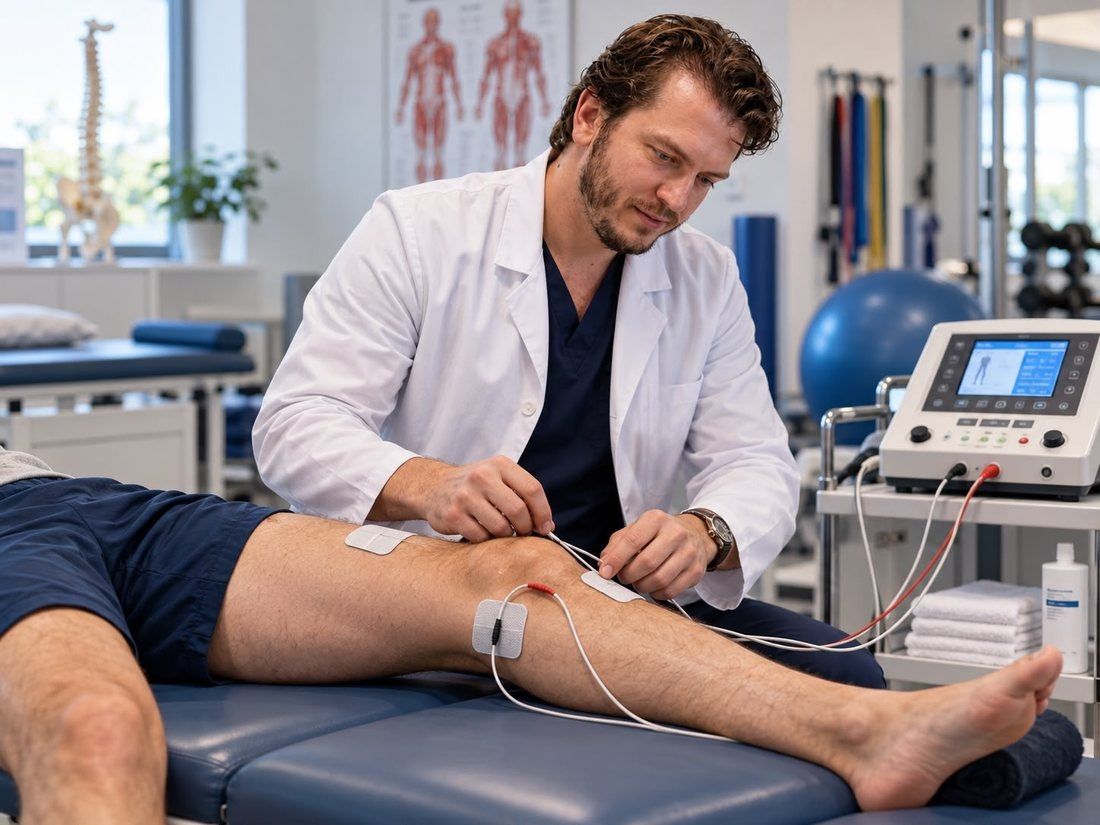
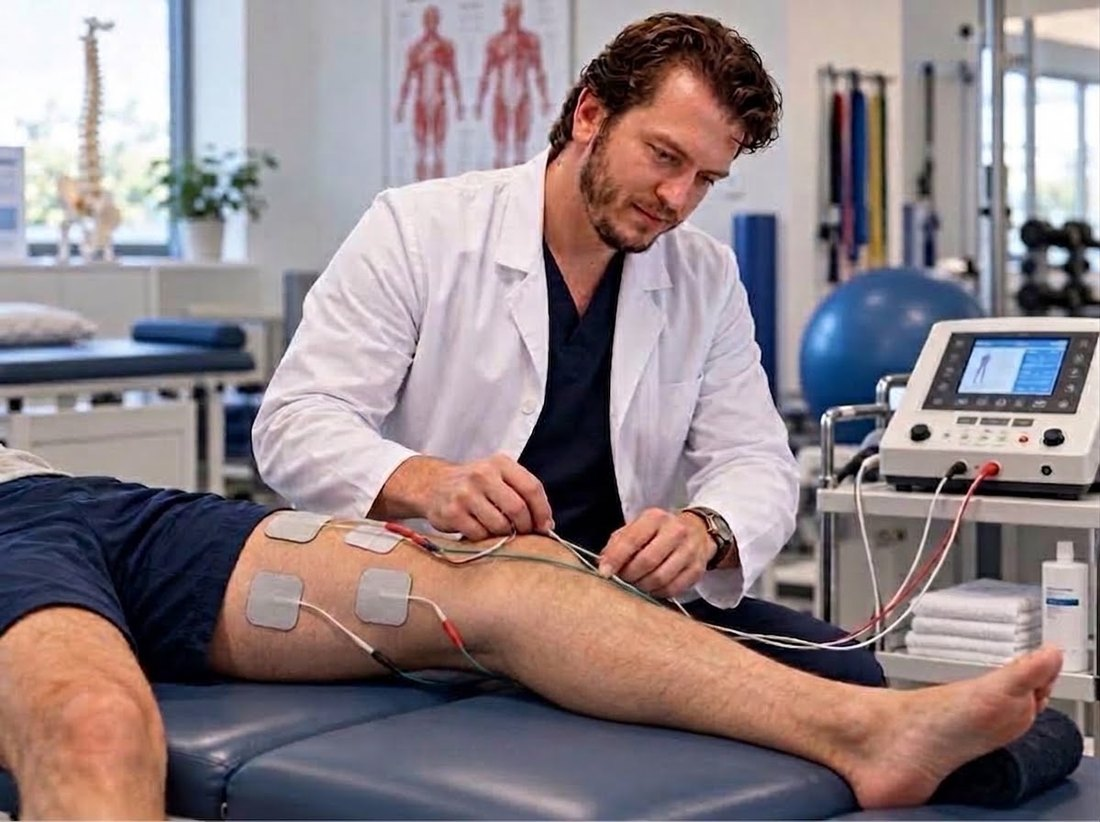
Add files via upload

diff --git a/bel-agrisi.html b/bel-agrisi.html
@@ -221,7 +221,7 @@
     <a class="back" href="bilgi.html"><svg viewBox="0 0 24 24" fill="none" stroke="currentColor" stroke-width="2" stroke-linecap="round" stroke-linejoin="round" aria-hidden="true"><path d="m15 6-6 6 6 6"/></svg>Bilgi köşesi</a>
     <p class="eyebrow">Hastalık rehberi</p>
     <h1>Bel ağrısı</h1>
-    <p class="lede">Dünyada iş göremezliğin bir numaralı nedeni. Kulağa korkutucu gelse de çoğu bel ağrısının altında ciddi bir hastalık yoktur ve yeni başlayan ağrıların çoğu birkaç haftada belirgin şekilde azalır. İyileşmenin anahtarı dinlenmek değil, hareket etmek.</p>
+    <p class="lede">Dünyada iş göremezliğin bir numaralı nedeni. Kulağa korkutucu gelse de çoğu bel ağrısının altında ciddi bir hastalık yoktur ve yeni başlayan ağrıların çoğu birkaç haftada belirgin şekilde azalır. İyileşmenin anahtarı dinlenmek değil, hareket etmektir.</p>
     <p class="meta">Son güncelleme: 28 Eylül 2026</p>
   </div>
 </header>
@@ -298,11 +298,11 @@
       <p class="soft">Hafif bir gerginlik ya da rahatsızlık normaldir; ağrının egzersizden sonra kısa sürede eski düzeyine dönmesi zarar görmediğinizi gösterir. Ağrı bacağa yayılmaya başlarsa ya da belirgin şekilde artarsa o egzersizi bırakın. Kolay olanlarla başlayıp zamanla artırın.</p>
       <div class="ex">
 <article class="exc"><figure class="an"><svg viewBox="0 0 120 120" aria-hidden="true"><line class="grd" x1="6" y1="112" x2="114" y2="112"/><circle class="hd" cx="14" cy="100" r="7"/><path class="fig" d="M62 104 L78 84 L90 108 M26 104 L46 108"/><path class="fig hl" d="M22 104 Q42 96 62 104"><animate attributeName="d" values="M22 104 Q42 96 62 104;M22 105 Q42 106 62 105;M22 104 Q42 96 62 104" dur="3.2s" keyTimes="0;0.5;1" repeatCount="indefinite" calcMode="spline" keySplines="0.45 0 0.55 1;0.45 0 0.55 1"/></path><g><animate attributeName="opacity" values="0;1;0" dur="3.2s" repeatCount="indefinite"/><path d="M42 84 V92 M38 88 L42 92 L46 88" stroke="#C8963E" stroke-width="2.5" fill="none" stroke-linecap="round" stroke-linejoin="round"/></g></svg><figcaption>Pelvik eğme</figcaption></figure><div class="body"><h3>Pelvik eğme</h3><p>Sırtüstü yatın, dizleriniz bükülü, ayak tabanlarınız yerde olsun. Karnınızı hafifçe sıkarak belinizin çukurunu yere doğru bastırın, 5 saniye tutun ve bırakın. Nefesinizi tutmayın.</p><span class="dose">10 tekrar, günde 2 kez</span></div></article>
-<article class="exc"><figure class="an"><svg viewBox="0 0 120 120" aria-hidden="true"><line class="grd" x1="6" y1="112" x2="114" y2="112"/><circle class="hd" cx="14" cy="100" r="7"/><path class="fig" d="M22 105 H60 M60 105 H104"/><path class="fig hl" d="M60 105 L74 86 L88 106"><animate attributeName="d" values="M60 105 L74 86 L88 106;M60 105 L52 76 L68 70;M60 105 L74 86 L88 106" dur="3.2s" keyTimes="0;0.5;1" repeatCount="indefinite" calcMode="spline" keySplines="0.45 0 0.55 1;0.45 0 0.55 1"/></path><path class="fig" d="M26 104 L44 96 L72 88"><animate attributeName="d" values="M26 104 L44 96 L72 88;M26 104 L40 86 L52 78;M26 104 L44 96 L72 88" dur="3.2s" keyTimes="0;0.5;1" repeatCount="indefinite" calcMode="spline" keySplines="0.45 0 0.55 1;0.45 0 0.55 1"/></path></svg><figcaption>Diz göğüse çekme</figcaption></figure><div class="body"><h3>Dizi göğse çekme</h3><p>Sırtüstü yatın. Bir dizinizi iki elinizle tutup göğsünüze doğru yavaşça çekin, belinizde hafif bir gerilme hissedin. Sonra diğer bacakla tekrarlayın; isterseniz iki dizi birlikte de çekebilirsiniz.</p><span class="dose">20–30 saniye tutun, her bacakla 3 kez</span></div></article>
+<article class="exc"><figure class="an"><svg viewBox="0 0 120 120" aria-hidden="true"><line class="grd" x1="6" y1="112" x2="114" y2="112"/><path class="fig" d="M34 105 H60 M60 105 H104"/><g><animateTransform attributeName="transform" type="rotate" values="0 34 105;22 34 105;0 34 105" dur="3.2s" keyTimes="0;0.5;1" repeatCount="indefinite" calcMode="spline" keySplines="0.45 0 0.55 1;0.45 0 0.55 1"/><path class="fig" d="M22 105 H34"/><circle class="hd" cx="14" cy="100" r="7"/></g><path class="fig hl" d="M60 105 L74 86 L88 106"><animate attributeName="d" values="M60 105 L74 86 L88 106;M60 105 L52 76 L68 70;M60 105 L74 86 L88 106" dur="3.2s" keyTimes="0;0.5;1" repeatCount="indefinite" calcMode="spline" keySplines="0.45 0 0.55 1;0.45 0 0.55 1"/></path><path class="fig" d="M26 104 L44 96 L72 88"><animate attributeName="d" values="M26 104 L44 96 L72 88;M27 101 L40 86 L52 78;M26 104 L44 96 L72 88" dur="3.2s" keyTimes="0;0.5;1" repeatCount="indefinite" calcMode="spline" keySplines="0.45 0 0.55 1;0.45 0 0.55 1"/></path></svg><figcaption>Diz göğse çekme</figcaption></figure><div class="body"><h3>Dizi göğse çekme</h3><p>Sırtüstü yatın. Bir dizinizi iki elinizle tutup göğsünüze doğru yavaşça çekin, belinizde hafif bir gerilme hissedin. İsterseniz çekerken başınızı da hafifçe dizinize doğru kaldırın, omuzlarınız yerde kalsın (Williams egzersizlerindeki gibi); boyun ağrınız varsa başınızı yerde bırakın. Sonra diğer bacakla tekrarlayın.</p><span class="dose">20–30 saniye tutun, her bacakla 3 kez</span></div></article>
 <article class="exc"><figure class="an"><svg viewBox="0 0 120 120" aria-hidden="true"><line class="grd" x1="6" y1="112" x2="114" y2="112"/><path class="fig" d="M32 76 V108 M82 76 V108 H106"/><path class="fig hl" d="M32 76 Q57 62 82 76"><animate attributeName="d" values="M32 76 Q57 62 82 76;M32 76 Q57 90 82 76;M32 76 Q57 62 82 76" dur="3.2s" keyTimes="0;0.5;1" repeatCount="indefinite" calcMode="spline" keySplines="0.45 0 0.55 1;0.45 0 0.55 1"/></path><g><animateTransform attributeName="transform" type="translate" values="0 6;0 -6;0 6" dur="3.2s" keyTimes="0;0.5;1" repeatCount="indefinite" calcMode="spline" keySplines="0.45 0 0.55 1;0.45 0 0.55 1"/><path class="fig" d="M32 76 L25 74"/><circle class="hd" cx="20" cy="74" r="7"/></g></svg><figcaption>Kedi-deve</figcaption></figure><div class="body"><h3>Kedi-deve</h3><p>Ellerinizin ve dizlerinizin üzerinde durun. Nefes verirken sırtınızı kedi gibi yukarı doğru yuvarlayın, başınız aşağı insin. Nefes alırken belinizi yavaşça aşağı bırakın, başınızı kaldırın. Ağrısız aralıkta, yavaş hareket edin.</p><span class="dose">10 tekrar</span></div></article>
 <article class="exc"><figure class="an"><svg viewBox="0 0 120 120" aria-hidden="true"><line class="grd" x1="6" y1="112" x2="114" y2="112"/><circle class="hd" cx="12" cy="100" r="7"/><path class="fig" d="M22 107 H44"/><path class="fig hl" d="M20 104 L58 104 L76 84 L86 108"><animate attributeName="d" values="M20 104 L58 104 L76 84 L86 108;M20 104 L58 86 L78 82 L86 108;M20 104 L58 104 L76 84 L86 108" dur="3.2s" keyTimes="0;0.5;1" repeatCount="indefinite" calcMode="spline" keySplines="0.45 0 0.55 1;0.45 0 0.55 1"/></path></svg><figcaption>Köprü</figcaption></figure><div class="body"><h3>Köprü</h3><p>Sırtüstü yatın, dizleriniz bükülü, ayaklarınız yerde. Kalçanızı sıkarak sırtınızı yerden kaldırın; omuzlarınızdan dizlerinize kadar düz bir çizgi oluşsun. 3–5 saniye bekleyip yavaşça inin.</p><span class="dose">10–15 tekrar, günde 1–2 kez</span></div></article>
-<article class="exc"><figure class="an"><svg viewBox="0 0 120 120" aria-hidden="true"><line class="grd" x1="6" y1="112" x2="114" y2="112"/><path class="fig" d="M32 76 H82 M32 76 V108 M82 76 V108 H104 M32 76 L26 74"/><circle class="hd" cx="20" cy="72" r="7"/><path class="fig hl" d="M32 76 L30 104"><animate attributeName="d" values="M32 76 L30 104;M32 76 L4 70;M32 76 L30 104" dur="3.2s" keyTimes="0;0.5;1" repeatCount="indefinite" calcMode="spline" keySplines="0.45 0 0.55 1;0.45 0 0.55 1"/></path><path class="fig hl" d="M82 76 L86 106"><animate attributeName="d" values="M82 76 L86 106;M82 76 L114 72;M82 76 L86 106" dur="3.2s" keyTimes="0;0.5;1" repeatCount="indefinite" calcMode="spline" keySplines="0.45 0 0.55 1;0.45 0 0.55 1"/></path></svg><figcaption>Kuş-köpek</figcaption></figure><div class="body"><h3>Kuş-köpek</h3><p>Ellerinizin ve dizlerinizin üzerinde, sırtınız düz durun. Sağ kolunuzu öne, sol bacağınızı arkaya uzatın; beliniz çukurlaşmasın, kalçanız dönmesin. 5 saniye tutun, sonra diğer kol ve bacakla yapın.</p><span class="dose">Her iki yana 8–10 tekrar</span></div></article>
-<article class="exc"><figure class="an"><svg viewBox="0 0 120 120" aria-hidden="true"><line class="grd" x1="6" y1="112" x2="114" y2="112"/><path class="fig" d="M30 84 L30 108 L50 108 M92 108 L104 96"/><circle class="hd" cx="26" cy="73" r="7"/><path class="fig hl" d="M30 84 L62 106 L92 108"><animate attributeName="d" values="M30 84 L62 106 L92 108;M30 84 L62 96 L92 108;M30 84 L62 106 L92 108" dur="3.2s" keyTimes="0;0.5;1" repeatCount="indefinite" calcMode="spline" keySplines="0.45 0 0.55 1;0.45 0 0.55 1"/></path></svg><figcaption>Dizler üstünde yan köprü</figcaption></figure><div class="body"><h3>Dizler üstünde yan köprü</h3><p>Yan yatın, dirseğiniz omzunuzun altında, dizleriniz bükülü olsun. Kalçanızı yerden kaldırarak başınızdan dizlerinize kadar düz bir çizgi oluşturun. Yavaşça inin, sonra diğer tarafa dönün.</p><span class="dose">10–20 saniye, her iki yana 3 kez</span></div></article>
+<article class="exc"><figure class="an"><svg viewBox="0 0 120 120" aria-hidden="true"><line class="grd" x1="6" y1="112" x2="114" y2="112"/><path class="fig hl" d="M38 76 L36 106" opacity=".5"><animate attributeName="d" values="M38 76 L36 106;M38 76 L6 70;M38 76 L36 106" dur="3.2s" keyTimes="0;0.5;1" repeatCount="indefinite" calcMode="spline" keySplines="0.45 0 0.55 1;0.45 0 0.55 1"/></path><path class="fig" d="M88 76 V108" opacity=".45"/><path class="fig" d="M38 76 H88 M38 76 V108 H14 M88 76 L95 79"/><circle class="hd" cx="101" cy="83" r="7"/><path class="fig hl" d="M88 76 L90 104"><animate attributeName="d" values="M88 76 L90 104;M88 76 L116 67;M88 76 L90 104" dur="3.2s" keyTimes="0;0.5;1" repeatCount="indefinite" calcMode="spline" keySplines="0.45 0 0.55 1;0.45 0 0.55 1"/></path></svg><figcaption>Kuş-köpek</figcaption></figure><div class="body"><h3>Kuş-köpek</h3><p>Ellerinizin ve dizlerinizin üzerinde, sırtınız düz durun. Sağ kolunuzu öne, sol bacağınızı arkaya uzatın; beliniz çukurlaşmasın, kalçanız dönmesin. 5 saniye tutun, sonra sol kol ve sağ bacakla yapın.</p><span class="dose">Her iki yana 8–10 tekrar</span></div></article>
+<article class="exc"><figure class="an"><svg viewBox="0 0 120 120" aria-hidden="true"><line class="grd" x1="6" y1="112" x2="114" y2="112"/><path class="fig" d="M30 82 L30 108 L10 108 M30 82 L25 79 M94 108 L106 98"/><circle class="hd" cx="20" cy="76" r="7"/><path class="fig hl" d="M30 82 L62 106 L94 108"><animate attributeName="d" values="M30 82 L62 106 L94 108;M30 82 L62 95 L94 108;M30 82 L62 106 L94 108" dur="3.2s" keyTimes="0;0.5;1" repeatCount="indefinite" calcMode="spline" keySplines="0.45 0 0.55 1;0.45 0 0.55 1"/></path><g><animate attributeName="opacity" values="0;1;0" dur="3.2s" repeatCount="indefinite"/><path d="M62 86 V78 M58 82 L62 78 L66 82" stroke="#C8963E" stroke-width="2.5" fill="none" stroke-linecap="round" stroke-linejoin="round"/></g></svg><figcaption>Dizler üstünde yan köprü</figcaption></figure><div class="body"><h3>Dizler üstünde yan köprü</h3><p>Yan yatın, dirseğiniz tam omzunuzun altında, ön kolunuz yerde olsun. Dizlerinizi bükün. Kalçanızı yerden kaldırarak başınızdan dizlerinize kadar düz bir çizgi oluşturun; üstteki elinizi belinize koyabilir ya da tavana uzatabilirsiniz. Yavaşça inin, sonra diğer tarafa dönün.</p><span class="dose">10–20 saniye, her iki yana 3 kez</span></div></article>
       </div>
     </div>
   </section>
@@ -386,6 +386,7 @@
         <li>Kovacs FM, Abraira V, Peña A, et al. Effect of firmness of mattress on chronic non-specific low-back pain: randomised, double-blind, controlled, multicentre trial. Lancet. 2003;362(9396):1599-1604.</li>
         <li>National Institute for Health and Care Excellence. <a href="https://www.nice.org.uk/guidance/ng59" target="_blank" rel="noopener">Low back pain and sciatica in over 16s: assessment and management (NG59)</a>. Londra: NICE; 2016, güncelleme 2020.</li>
         <li>Physiopedia. <a href="https://www.physio-pedia.com/Non_Specific_Low_Back_Pain" target="_blank" rel="noopener">Non Specific Low Back Pain</a>.</li>
+        <li>Physiopedia. <a href="https://www.physio-pedia.com/Williams_Flexion_Exercise" target="_blank" rel="noopener">Williams Flexion Exercise</a>.</li>
         <li>Wallwork SB, Braithwaite FA, O'Keeffe M, et al. <a href="https://www.cmaj.ca/content/196/2/E29" target="_blank" rel="noopener">The clinical course of acute, subacute and persistent low back pain: a systematic review and meta-analysis</a>. CMAJ. 2024;196(2):E29-E46.</li>
       </ol>
     </div>

diff --git a/index.html b/index.html
@@ -170,10 +170,8 @@
   }
   @container (max-width:560px){ .mosaic{--cols:3;--g:3px} }
   @container (min-width:900px){ .mosaic{--cols:6;--g:5px} }
-  .tile{all:unset;cursor:zoom-in;position:relative;overflow:hidden;border-radius:4px;background:var(--panel);display:block}
-  .tile img{width:100%;height:100%;object-fit:cover;display:block;transition:transform .5s ease}
-  .tile:hover img{transform:scale(1.04)}
-  .tile:focus-visible{outline:2px solid var(--gold);outline-offset:2px}
+  .tile{position:relative;overflow:hidden;border-radius:4px;background:var(--panel);display:block}
+  .tile img{width:100%;height:100%;object-fit:cover;display:block;pointer-events:none;-webkit-user-drag:none;user-select:none}
   .tile.big{grid-row:span 2;grid-column:span 2}
 
   /* lightbox */
@@ -419,7 +417,7 @@
       <div class="sec-head">
         <p class="eyebrow">Klinikten kareler</p>
         <h2>Uygulamalardan kareler</h2>
-        <p class="intro">Manuel terapi, akupunktur, kuru iğneleme ve elektroterapi uygulamalarından. Büyütmek için bir kareye dokunun.</p>
+        <p class="intro">Manuel terapi, akupunktur, kuru iğneleme ve elektroterapi uygulamalarından.</p>
       </div>
       <div class="mosaic-wrap">
         <div class="mosaic" id="mosaic"></div>
@@ -604,13 +602,11 @@
   var m = document.getElementById('mosaic');
   var pad = function(n){ return (n<10?'0':'') + n; };
   for (var i=1;i<=N;i++){
-    var b = document.createElement('button');
+    var b = document.createElement('div');
     b.className = 'tile' + (special[i] ? ' ' + special[i] : '');
-    b.dataset.i = i;
-    b.setAttribute('aria-label', 'Kare ' + i + ' / ' + N + ', büyüt');
     var im = document.createElement('img');
     im.src = 'p' + pad(i) + '_t.jpg';
-    im.alt = '';
+    im.alt = 'Klinikten kare ' + i;
     im.loading = i <= 8 ? 'eager' : 'lazy';
     im.decoding = 'async';
     b.appendChild(im);
@@ -632,9 +628,6 @@
   }
   function open(g, i){ gname = g; list = groups[g]; lastFocus = document.activeElement; show(i); lb.hidden = false; document.body.style.overflow='hidden'; document.getElementById('lb-close').focus(); }
   function close(){ lb.hidden = true; document.body.style.overflow=''; if (lastFocus) lastFocus.focus(); }
-  m.addEventListener('click', function(e){
-    var t = e.target.closest('.tile'); if (t) open('kare', +t.dataset.i);
-  });
   document.querySelectorAll('.rp').forEach(function(b){
     b.addEventListener('click', function(){ open(b.dataset.group, +b.dataset.i); });
   });

diff --git a/boyun-agrisi.html b/boyun-agrisi.html
@@ -277,7 +277,7 @@
       <h2>Boyun düzleşmesi ve "kötü duruş" hakkında</h2>
       <p class="soft">Röntgende "boyun düzleşmesi" yazısını görmek birçok kişiyi endişelendirir. 54'ü boyun ağrılı, 53'ü ağrısız 107 kişinin karşılaştırıldığı bir çalışmada iki grup arasında boyun eğriliği açısından fark bulunmadı. Araştırmacılara göre bu tür bulgular ağrının nedeni değil, rastlantısal olarak görülen değişikliklerdir.</p>
       <div class="callout">
-        <p>Duruş için de benzer bir durum var: herkes için tek bir "doğru duruş" yok. En iyi duruş, sık değiştirilen duruştur. Sorun çoğu zaman pozisyonun kendisinde değil, aynı pozisyonda çok uzun kalmakta.</p>
+        <p>Duruş için de benzer bir durum var: herkes için tek bir "doğru duruş" yok. En iyi duruş, sık değiştirilen duruştur. Sorun çoğu zaman pozisyonun kendisinde değil, aynı pozisyonda çok uzun kalmaktadır.</p>
       </div>
     </div>
   </section>
